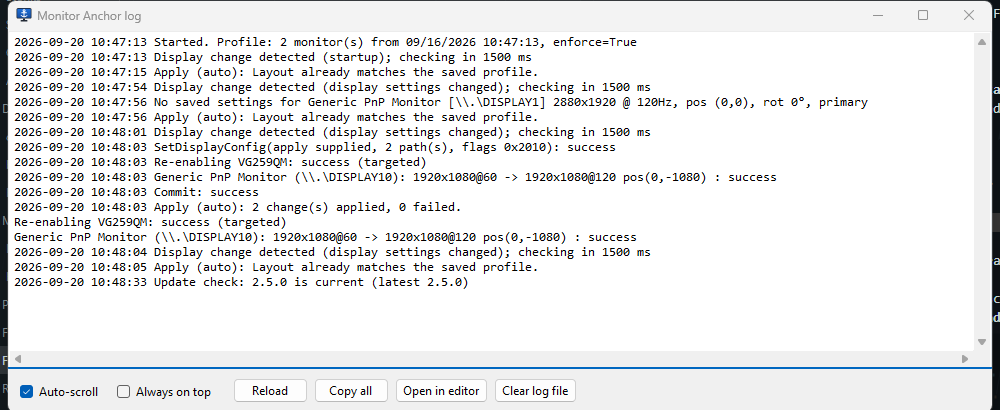
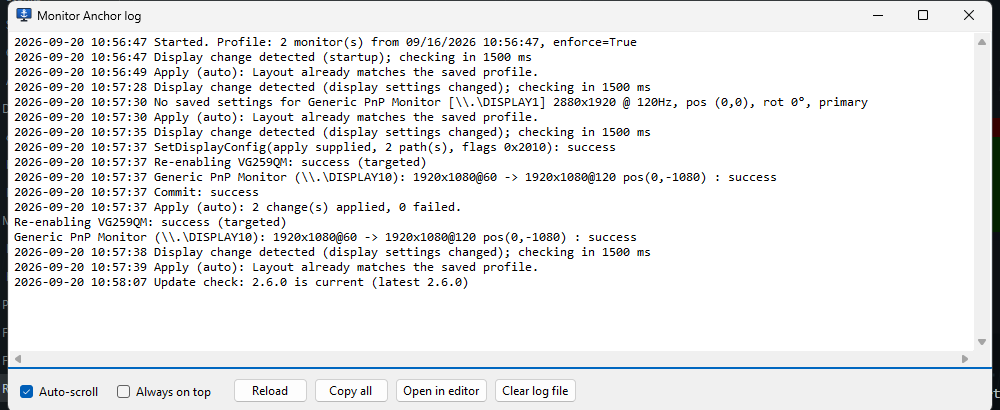
Treat display changes made by the user as intentional; 2.6.0
A display-settings change with unchanged monitors, human input within
the last minute, and not caused by the app's own apply is no longer
reverted. After a 20 s grace period the live settings are saved as
the layout (default), offered via a clickable notification, or
reverted, per the new "When I change display settings myself" menu.
DisplayProfile.DifferencesFrom describes what changed.

diff --git a/TrayApp.cs b/TrayApp.cs
@@ -29,6 +29,8 @@ public sealed class TrayApp : ApplicationContext
     private readonly ToolStripMenuItem _startupItem;
     private readonly ToolStripMenuItem _keepAwakeItem;
     private readonly ToolStripMenuItem _restoreWindowsItem;
+    private readonly ToolStripMenuItem _userChangesMenu;
+    private readonly System.Windows.Forms.Timer _userChange;
     private readonly WindowMemory _memory = new();
     private readonly System.Windows.Forms.Timer _memoryTimer;
     private HashSet<string> _lastActiveMonitorIds = new(StringComparer.OrdinalIgnoreCase);
@@ -108,6 +110,11 @@ public sealed class TrayApp : ApplicationContext
         _startupItem = new ToolStripMenuItem("Start with Windows", null, (_, _) => ToggleStartup()) { CheckOnClick = false };
         _keepAwakeItem = new ToolStripMenuItem("Keep displays awake (never sleep)", null, (_, _) => ToggleKeepAwake()) { CheckOnClick = false };
         _restoreWindowsItem = new ToolStripMenuItem("When a monitor returns, move windows back", null, (_, _) => ToggleRestoreWindows()) { CheckOnClick = false };
+        _userChangesMenu = new ToolStripMenuItem("When I change display settings myself");
+        foreach (var (label, mode) in new[] { ("Update the saved layout (after 20 s)", "update"), ("Ask me with a notification", "ask"), ("Put the saved layout back", "revert") })
+            _userChangesMenu.DropDownItems.Add(new ToolStripMenuItem(label, null, (_, _) => SetUserChanges(mode)) { Tag = mode });
+        _userChange = new System.Windows.Forms.Timer { Interval = UserChangeGraceMs };
+        _userChange.Tick += (_, _) => OnUserChangeSettled();
         // Everything that happens while you are idle lives in one submenu. The mouse choice is one-of-three
         // (hovering over every window already includes a nudge); poking Remote Desktop is separate because it
         // also takes focus and presses a key.
@@ -171,6 +178,7 @@ public sealed class TrayApp : ApplicationContext
         menu.Items.Add(new ToolStripSeparator());
 
         menu.Items.Add(_enforceItem);
+        menu.Items.Add(_userChangesMenu);
         menu.Items.Add(_restoreWindowsItem);
         menu.Items.Add(_keepAwakeItem);
         menu.Items.Add(idleMenu);
@@ -200,6 +208,7 @@ public sealed class TrayApp : ApplicationContext
             Visible = true,
         };
         _tray.DoubleClick += (_, _) => Persist();
+        _tray.BalloonTipClicked += (_, _) => OnBalloonClicked();
 
         _debounce = new System.Windows.Forms.Timer { Interval = DebounceMs };
         _debounce.Tick += (_, _) => OnDebounceElapsed();
@@ -371,6 +380,7 @@ public sealed class TrayApp : ApplicationContext
             }
 
             var result = DisplayManager.Apply(_profile);
+            if (result.MadeChanges) _ownChangeUntil = DateTime.Now.AddSeconds(5); // the change events that follow are ours
 
             if (_settings.VirtualStandIns)
             {
@@ -755,6 +765,8 @@ public sealed class TrayApp : ApplicationContext
         _applyItem.Enabled = hasProfile;
         BuildLayoutsMenu();
         _enforceItem.Checked = _settings.Enforce;
+        foreach (ToolStripMenuItem item in _userChangesMenu.DropDownItems)
+            item.Checked = (string)item.Tag! == _settings.UserChanges;
         _keepAwakeItem.Checked = _settings.KeepAwake;
         _restoreWindowsItem.Checked = _settings.RestoreWindows;
         _standInItem.Checked = _settings.VirtualStandIns;
@@ -795,10 +807,73 @@ public sealed class TrayApp : ApplicationContext
     private void OnDisplaySettingsChanged(object? sender, EventArgs e)
     {
         _lastDisplayChange = DateTime.Now;
-        _kvm.OnDisplayChange();
+        var (removed, added) = _kvm.OnDisplayChange();
         // Capture what Windows just did to the windows, before we touch anything.
         WindowSnapshot.LogNow("right after display change");
+
+        // Same monitors, a person at the keyboard, and not our own apply: that is a deliberate change (yours, or an
+        // app you launched), not Windows shuffling things. Fighting it makes settings impossible to change.
+        bool ours = DateTime.Now < _ownChangeUntil;
+        bool humanPresent = InputTracker.HumanIdleTime() < TimeSpan.FromSeconds(60);
+        if (removed + added == 0 && humanPresent && !ours && _settings.Enforce && _profile != null && _settings.UserChanges != "revert")
+        {
+            Log.Write($"Display settings changed with the same monitors while you were active: treating as intentional ({_settings.UserChanges}); checking in {UserChangeGraceMs / 1000} s");
+            _userChange.Stop();
+            _userChange.Start();
+            return;
+        }
         ScheduleApply("display settings changed");
+    }
+
+    private const int UserChangeGraceMs = 20_000; // Windows' own "Keep these display settings?" prompt reverts after 15 s
+    private DateTime _ownChangeUntil = DateTime.MinValue;
+
+    /// <summary>Grace period over: whatever is live now is what the user meant. Save it, or offer to.</summary>
+    private void OnUserChangeSettled()
+    {
+        _userChange.Stop();
+        if (_profile == null) return;
+        var live = DisplayManager.CaptureForProfile();
+        var diffs = _profile.DifferencesFrom(live);
+        if (diffs.Count == 0)
+        {
+            Log.Write("Intentional change: settings are back to the saved layout (reverted or temporary); nothing to do");
+            return;
+        }
+        string summary = string.Join("; ", diffs);
+        if (_settings.UserChanges == "update")
+        {
+            _store.Upsert(live);
+            RefreshActiveLayout();
+            Log.Write($"Layout \"{_profile?.Name}\" updated from your change: {summary}");
+            _tray.ShowBalloonTip(6000, "Layout updated", summary + Environment.NewLine + "Saved as the layout for these monitors.", ToolTipIcon.Info);
+        }
+        else
+        {
+            Log.Write($"Intentional change kept, not saved: {summary}. Click the notification or choose Persist to save it.");
+            _pendingUserChange = live;
+            _tray.ShowBalloonTip(10000, "Keep these display settings?", summary + Environment.NewLine + "Click to save them as the layout. Otherwise they stay until the next monitor change.", ToolTipIcon.Info);
+        }
+    }
+
+    private DisplayProfile? _pendingUserChange;
+
+    private void OnBalloonClicked()
+    {
+        if (_pendingUserChange == null) return;
+        _store.Upsert(_pendingUserChange);
+        _pendingUserChange = null;
+        RefreshActiveLayout();
+        Log.Write($"Layout \"{_profile?.Name}\" updated from the notification");
+        _tray.ShowBalloonTip(3000, "Layout updated", "Your display settings are now the saved layout.", ToolTipIcon.Info);
+    }
+
+    private void SetUserChanges(string mode)
+    {
+        _settings.UserChanges = mode;
+        _settings.Save();
+        Log.Write($"UserChanges = {mode}");
+        RefreshMenu();
     }
 
     private void OnPowerModeChanged(object? sender, PowerModeChangedEventArgs e)
@@ -1047,6 +1122,7 @@ public sealed class TrayApp : ApplicationContext
         SystemEvents.SessionSwitch -= OnSessionSwitch;
         _debounce.Dispose();
         _lateSnapshot.Dispose();
+        _userChange.Dispose();
         _memoryTimer.Dispose();
         _updateTimer.Dispose();
         _jiggler.Dispose();

diff --git a/DisplayProfile.cs b/DisplayProfile.cs
@@ -106,4 +106,25 @@ public sealed class DisplayProfile
 
     public override string ToString() =>
         Monitors.Count == 0 ? "(no monitors)" : string.Join(Environment.NewLine, Monitors.Select(m => "\u2022 " + m));
+
+    /// <summary>Human-readable differences between a live capture and this saved layout, per monitor. Empty when they match.</summary>
+    public List<string> DifferencesFrom(DisplayProfile live)
+    {
+        var diffs = new List<string>();
+        foreach (var l in live.Monitors.Where(m => m.IsActive))
+        {
+            var s = FindFor(l);
+            if (s == null) continue;
+            var parts = new List<string>();
+            if (s.Width != l.Width || s.Height != l.Height) parts.Add($"{s.Width}x{s.Height} -> {l.Width}x{l.Height}");
+            if (s.RefreshRate != l.RefreshRate) parts.Add($"{s.RefreshRate} Hz -> {l.RefreshRate} Hz");
+            if (s.PositionX != l.PositionX || s.PositionY != l.PositionY) parts.Add($"position ({s.PositionX},{s.PositionY}) -> ({l.PositionX},{l.PositionY})");
+            if (s.Orientation != l.Orientation) parts.Add($"rotation {s.Orientation * 90}\u00b0 -> {l.Orientation * 90}\u00b0");
+            if (s.IsPrimary != l.IsPrimary) parts.Add(l.IsPrimary ? "now primary" : "no longer primary");
+            if (s.HdrSupported && l.HdrSupported && s.HdrEnabled != l.HdrEnabled) parts.Add($"HDR {(s.HdrEnabled ? "on" : "off")} -> {(l.HdrEnabled ? "on" : "off")}");
+            if (s.DpiScale > 0 && l.DpiScale > 0 && s.DpiScale != l.DpiScale) parts.Add($"scale {s.DpiScale}% -> {l.DpiScale}%");
+            if (parts.Count > 0) diffs.Add($"{l.MonitorName} ({l.AdapterName}): {string.Join(", ", parts)}");
+        }
+        return diffs;
+    }
 }

diff --git a/tests/MonitorAnchor.Tests/DifferencesTests.cs b/tests/MonitorAnchor.Tests/DifferencesTests.cs
@@ -1,0 +1,41 @@
+using MonitorAnchor;
+using Xunit;
+
+namespace MonitorAnchor.Tests;
+
+public class DifferencesTests
+{
+    private static MonitorSettings Mon(string id, int hz = 120, bool hdr = false, int dpi = 100) => new()
+    {
+        MonitorId = $@"\\?\DISPLAY#{id}#{{g}}", MonitorName = "VG259QM", AdapterName = @"\\.\DISPLAY2",
+        Width = 1920, Height = 1080, RefreshRate = hz, HdrSupported = true, HdrEnabled = hdr, DpiScale = dpi, IsActive = true,
+    };
+
+    [Fact]
+    public void No_differences_when_live_matches_saved()
+    {
+        var saved = new DisplayProfile { Monitors = { Mon("A") } };
+        var live = new DisplayProfile { Monitors = { Mon("A") } };
+        Assert.Empty(saved.DifferencesFrom(live));
+    }
+
+    [Fact]
+    public void Describes_each_changed_field()
+    {
+        var saved = new DisplayProfile { Monitors = { Mon("A", hz: 120, hdr: true, dpi: 100) } };
+        var live = new DisplayProfile { Monitors = { Mon("A", hz: 60, hdr: false, dpi: 125) } };
+        var d = saved.DifferencesFrom(live);
+        Assert.Single(d);
+        Assert.Contains("120 Hz -> 60 Hz", d[0]);
+        Assert.Contains("HDR on -> off", d[0]);
+        Assert.Contains("scale 100% -> 125%", d[0]);
+    }
+
+    [Fact]
+    public void Unknown_monitors_are_ignored()
+    {
+        var saved = new DisplayProfile { Monitors = { Mon("A") } };
+        var live = new DisplayProfile { Monitors = { Mon("Z", hz: 60) } };
+        Assert.Empty(saved.DifferencesFrom(live));
+    }
+}

diff --git a/KvmDetector.cs b/KvmDetector.cs
@@ -72,7 +72,8 @@ public sealed class KvmDetector : IDisposable
         Topology.ConnectedMonitors().Select(t => t.MonitorId).ToHashSet(StringComparer.OrdinalIgnoreCase);
 
     /// <summary>Call on every display-change event: diffs the connected monitor set against the last one.</summary>
-    public void OnDisplayChange()
+    /// <summary>Returns how many monitors left and arrived since the last call, so the caller knows whether the topology changed.</summary>
+    public (int Removed, int Added) OnDisplayChange()
     {
         var now = CurrentMonitors();
         int removed = _connected.Count(id => !now.Contains(id));
@@ -89,6 +90,7 @@ public sealed class KvmDetector : IDisposable
             _events.Add((at, "retrain", "r" + (++_monitorSeq)));
         }
         Restart();
+        return (removed, added);
     }
 
     /// <summary>Call for every device interface arrival/removal (from <see cref="DeviceWatcher"/>).</summary>

diff --git a/AppSettings.cs b/AppSettings.cs
@@ -8,6 +8,13 @@ public sealed class AppSettings
     /// <summary>When true, the saved layout is re-applied automatically on every display change.</summary>
     public bool Enforce { get; set; } = true;
 
+    /// <summary>
+    /// What to do when the display settings change while you are at the keyboard and no monitor came or went,
+    /// i.e. you (or an app you launched) changed them on purpose: "update" saves them as the layout after a short
+    /// grace period, "ask" shows a notification you can click to save them, "revert" puts the layout back.
+    /// </summary>
+    public string UserChanges { get; set; } = "update";
+
     /// <summary>When true, the display and system idle timers are held so the screens never sleep.</summary>
     public bool KeepAwake { get; set; } = true;
 

diff --git a/README.md b/README.md
@@ -94,6 +94,7 @@ that reconnects. Monitor Anchor keeps the monitor identities and layout stable s
 | Item | What it does |
 | --- | --- |
 | Enforce layout on display changes | Automatic restore. Off = the app just sits there. On by default. |
+| When I change display settings myself | A change with the same monitors connected, while you are at the keyboard, and not made by the app, is yours. **Update the saved layout** (default) saves it after 20 s, once Windows' own "Keep these settings?" prompt has had its chance to revert; **Ask me** shows a notification you click to save; **Put the saved layout back** is the old behaviour. Plug/unplug, resume, unlock and startup are always enforced. |
 | When a monitor returns, move windows back | Every 20 s while the layout is intact, remembers where each window sits. After a monitor comes back and the layout is restored, windows that Windows moved to another screen are put back, maximised state included. Windows 11 does much of this itself; this covers what it misses. Off by default. |
 | Keep displays awake | Hold the display and system idle timers so the screens never turn off. On by default. |
 | When idle ▸ mouse | One of three: **Leave the mouse alone** (default), **Nudge the mouse in place** (one pixel and back every half minute, so the local session and presence indicators see activity), or **Hover over every window** (the cursor visits each visible window in turn, hovers and nudges without changing focus, so anything that watches for mouse movement such as VNC, Citrix, browser-based sessions or chat presence sees activity; fully covered windows are skipped; the cursor goes back where it was). Hovering includes the nudge, so they are alternatives, not additive. |

diff --git a/CHANGELOG.md b/CHANGELOG.md
@@ -3,6 +3,16 @@
 All notable changes to Monitor Anchor. The release workflow uses the section for the tagged version as the
 release notes, so keep the heading format `## X.Y.Z - YYYY-MM-DD`.
 
+## 2.6.0 - 2026-09-20
+
+**Changed**
+- **Your own changes are no longer undone.** A display-settings change with the same monitors connected, while
+  someone is at the keyboard, and not caused by the app, is treated as intentional. After a 20-second grace
+  period (long enough for Windows' own "Keep these display settings?" prompt to revert) the live settings are
+  saved as the layout, with a notification saying what changed. *When I change display settings myself* in the
+  menu chooses between updating the layout (default), asking with a clickable notification, or the old
+  behaviour of putting the layout back. Enforcement on plug/unplug, resume, unlock and startup is unchanged.
+
 ## 2.5.0 - 2026-09-20
 
 **New**
